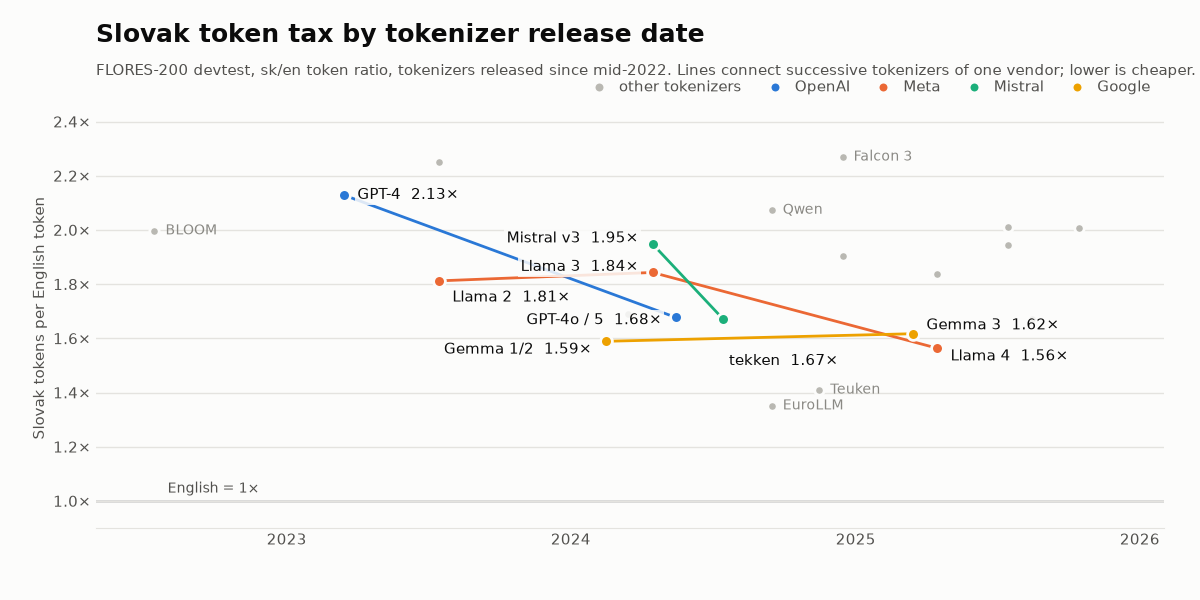
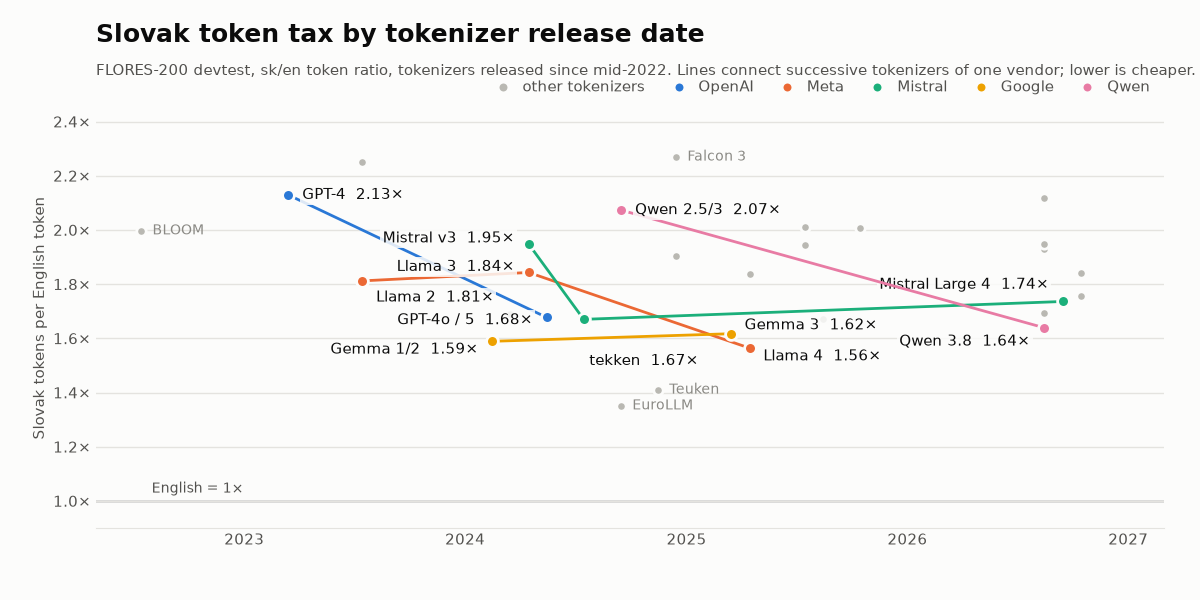
docs: timeline with the Qwen lineage and Mistral Large 4; refresh preview

diff --git a/docs/make_timeline.py b/docs/make_timeline.py
@@ -20,15 +20,16 @@ sys.path.insert(0, str(ROOT))
 from skbench.registry import LINEAGES, RELEASED  # noqa: E402
 
 SURF, INK, INK2, MUTED, GRID, OTHER = "#fcfcfb", "#0b0b0b", "#52514e", "#8a8984", "#e4e3df", "#b9b8b2"
-# Reference categorical slots 1-4, fixed order (validated adjacent-pair palette).
-COLORS = {"OpenAI": "#2a78d6", "Meta": "#eb6834", "Mistral": "#1baf7a", "Google": "#eda100"}
+# Reference categorical slots 1-5, fixed order (validated adjacent-pair palette).
+COLORS = {"OpenAI": "#2a78d6", "Meta": "#eb6834", "Mistral": "#1baf7a", "Google": "#eda100", "Qwen": "#e87ba4"}
 SHORT = {
     "GPT-4 / 3.5 (cl100k_base)": "GPT-4", "GPT-4o / 4.1 / 5 (o200k_base)": "GPT-4o / 5",
     "Llama 2": "Llama 2", "Llama 3.x": "Llama 3", "Llama 4": "Llama 4",
     "Mistral / Mixtral (v3)": "Mistral v3", "Mistral Nemo / Small 3 / Large 2 (tekken)": "tekken",
     "Gemma 1 / 2": "Gemma 1/2", "Gemma 3": "Gemma 3",
+    "Mistral Large 4": "Mistral Large 4", "Qwen 2.5 / 3": "Qwen 2.5/3", "Qwen 3.8": "Qwen 3.8",
     "EuroLLM": "EuroLLM", "BLOOM": "BLOOM", "Falcon 3": "Falcon 3",
-    "Qwen 2.5 / 3": "Qwen", "Teuken (OpenGPT-X)": "Teuken",
+    "Teuken (OpenGPT-X)": "Teuken",
 }
 # direct-label placement in points: (dx, dy, horizontal alignment), checked by eye on the render
 OFFSET = {
@@ -36,7 +37,8 @@ OFFSET = {
     "Llama 2": (10, -12, "left"), "Llama 3.x": (-10, 4, "right"), "Llama 4": (10, -6, "left"),
     "Mistral / Mixtral (v3)": (-10, 4, "right"), "Mistral Nemo / Small 3 / Large 2 (tekken)": (4, -30, "left"),
     "Gemma 1 / 2": (-10, -6, "right"), "Gemma 3": (10, 6, "left"),
-    "EuroLLM": (8, 0, "left"), "BLOOM": (8, 0, "left"), "Falcon 3": (8, 0, "left"), "Qwen 2.5 / 3": (8, 0, "left"),
+    "Mistral Large 4": (-10, 12, "right"), "Qwen 2.5 / 3": (10, 0, "left"), "Qwen 3.8": (-10, -10, "right"),
+    "EuroLLM": (8, 0, "left"), "BLOOM": (8, 0, "left"), "Falcon 3": (8, 0, "left"),
     "Teuken (OpenGPT-X)": (8, 0, "left"),
 }
 
@@ -82,7 +84,7 @@ def main():
     ax.annotate("English = 1×", (date(2022, 8, 1), 1.0), xytext=(0, 6), textcoords="offset points",
                 fontsize=10, color=INK2)
     ax.set_ylim(0.9, 2.45)
-    ax.set_xlim(date(2022, 5, 1), date(2026, 2, 1))
+    ax.set_xlim(date(2022, 5, 1), date(2027, 3, 1))
     ax.yaxis.set_major_formatter(plt.FuncFormatter(lambda v, _: f"{v:.1f}×"))
     ax.xaxis.set_major_locator(mdates.YearLocator())
     ax.xaxis.set_major_formatter(mdates.DateFormatter("%Y"))
@@ -96,7 +98,7 @@ def main():
     fig.text(0.08, 0.93, "Slovak token tax by tokenizer release date", fontsize=18, weight="bold", color=INK)
     fig.text(0.08, 0.875, "FLORES-200 devtest, sk/en token ratio, tokenizers released since mid-2022. "
              "Lines connect successive tokenizers of one vendor; lower is cheaper.", fontsize=11, color=INK2)
-    leg = ax.legend(loc="upper right", frameon=False, fontsize=11, labelcolor=INK2, ncol=5,
+    leg = ax.legend(loc="upper right", frameon=False, fontsize=11, labelcolor=INK2, ncol=6,
                     bbox_to_anchor=(1.0, 1.1), handletextpad=0.3, columnspacing=1.2)
     for h in leg.legend_handles:
         h.set_sizes([60])

diff --git a/docs/make_social_preview.py b/docs/make_social_preview.py
@@ -28,7 +28,7 @@ fig = plt.figure(figsize=(W / 100, H / 100), dpi=100, facecolor=SURF)
 fig.text(L / W, 1 - 92 / H, "sk-tokenizer-bench", fontsize=21, color=BLUE, weight="bold", va="top")
 fig.text(L / W, 1 - 146 / H, "How much more\ndoes Slovak cost\nin LLM tokens?", fontsize=33, color=INK, weight="bold", va="top", linespacing=1.18)
 fig.text(L / W, 1 - 330 / H, "Same text, Slovak vs English:\n1.6× – 2.3× more tokens\non mainstream models.", fontsize=18, color=INK2, va="top", linespacing=1.45)
-fig.text(L / W, 72 / H, "33 tokenizers · FLORES-200 · 10 languages\ngithub.com/ltchurik/sk-tokenizer-bench", fontsize=13, color=MUTED, va="bottom", linespacing=1.6)
+fig.text(L / W, 72 / H, "41 tokenizers · FLORES-200 · 10 languages\ngithub.com/ltchurik/sk-tokenizer-bench", fontsize=13, color=MUTED, va="bottom", linespacing=1.6)
 ax = fig.add_axes([770 / W, 120 / H, 420 / W, 410 / H], facecolor=SURF)
 n, bh = len(data), 0.52
 for i, (lab, v) in enumerate(data):
